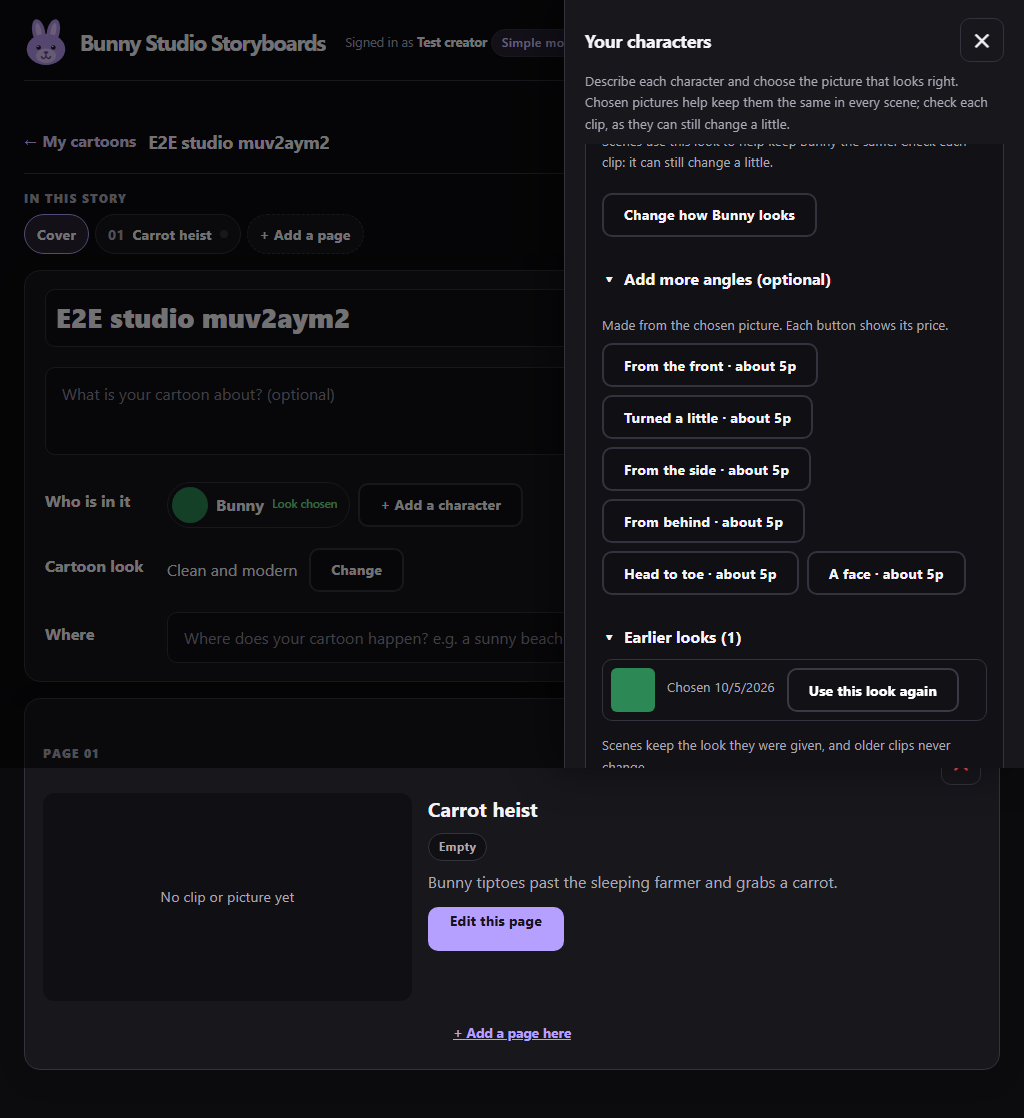
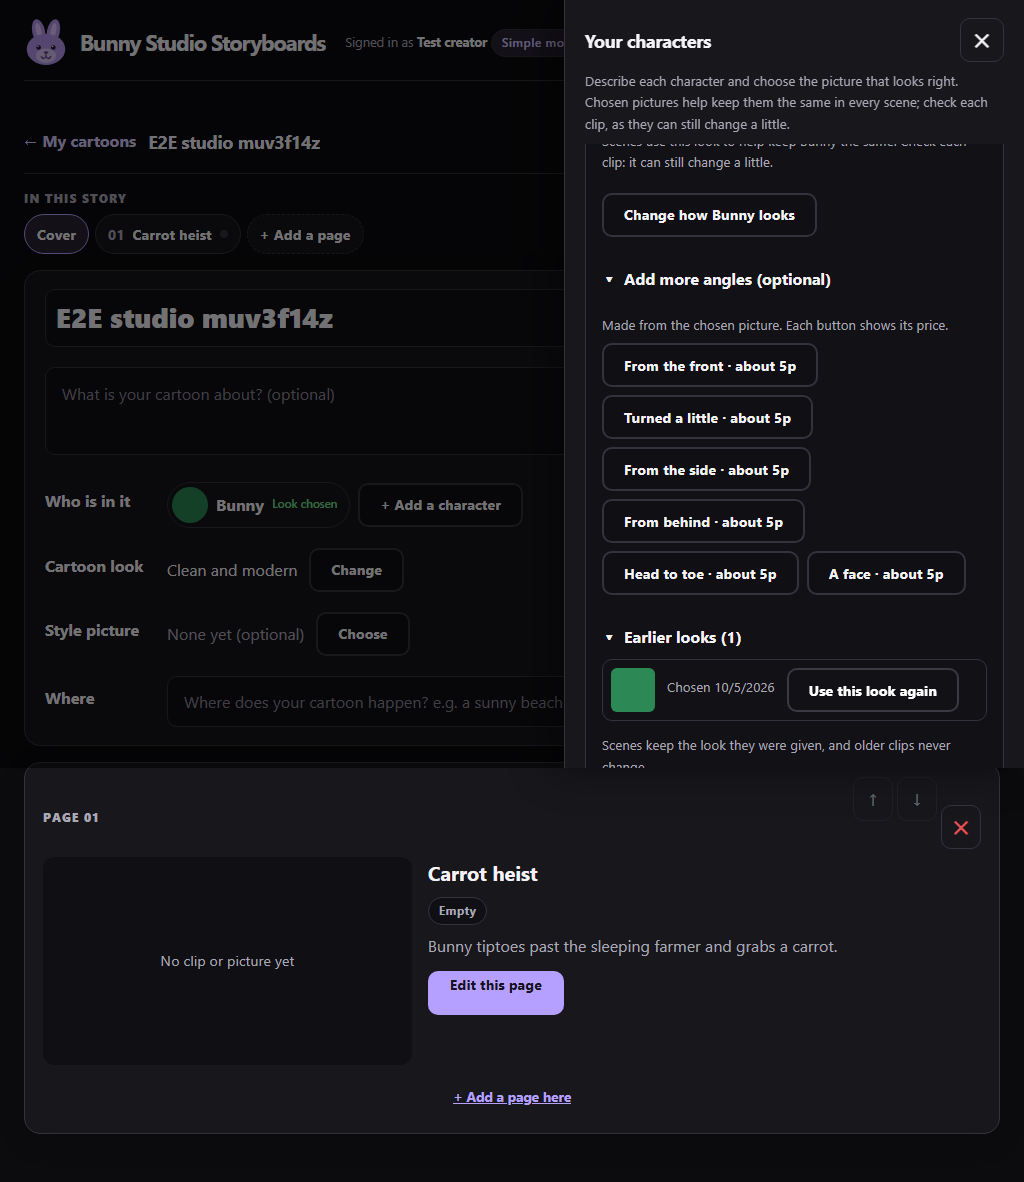
docs,models: Seedance 2.5 refs live-checked (stays Advanced, not recommended); step-4 status in the plan, review and storybook notes

diff --git a/packages/models/src/generated.ts b/packages/models/src/generated.ts
@@ -587,7 +587,7 @@ export const MODELS = [
       "audio_mode": "optional",
       "documentation": "https://fal.ai/models/bytedance/seedance-2.5/reference-to-video/api",
       "rollout": "advanced",
-      "verified_live": false
+      "verified_live": true
     },
     "pricing": {
       "strategy": "video_tokens",

diff --git a/docs/video-optimisation-plan.md b/docs/video-optimisation-plan.md
@@ -427,16 +427,43 @@ Deviations from the proposal:
 
 Not built yet:
 
-- The style picture (§7.2).
 - The stored render recipe (§7.3).
 - Seedance draft completion (DF-03).
 - The Kling O3 elements adapter (V9: benchmark first).
 - Joined parts are still possible for a long words-only clip (F12).
-- Director Mode's older `POST /shots/:id/jobs` still sends the still prompt to a video maker.
-- Stage 5, the live smoke test and the benchmark, needs the spend cap (V7).
+- Director Mode's older `POST /shots/:id/jobs` is retired (422); the scene composer is the only video path.
+- The benchmark (stage 5, second half).
 
 Tests:
 
 - Compiler: 63, at 100% coverage.
-- API: 141, including `test/video-continuity.test.ts`.
-- Browser: 25 passed, including `e2e/continuity.spec.ts`, at 1024×768 over the LAN IP.
+- API: 151, including `test/video-continuity.test.ts` and the §7.2/§7.4 cases in `test/character-studio.test.ts`.
+- Browser: 24 passed, 1 opt-in walkthrough, at 1024×768 over the LAN IP.
+
+### Added 5 October 2026
+
+- **The style picture (§7.2): built, fake-verified.** `PUT /projects/:id/style` takes
+  `style_picture_asset_id` (one of the cartoon's own finished pictures, or null); the cover has a
+  "Style picture" row with a picker. `plan()` appends it as the last reference with role `style`,
+  counts it against the maker's limit, and the compiled prompt says "match the art style, colours
+  and line work shown in @ImageN". When it has no room it refuses with `missing: style_picture_room`
+  rather than dropping it. The continuity report says which clips used it. A style picture cannot be
+  binned while it is chosen.
+- **Start where the last page ended (§7.4): built, fake-verified, frame extraction checked on a real
+  clip.** `POST /shots/:id/start-from-previous` takes the last frame of the previous page's chosen
+  clip (ffmpeg `-sseof`), stores it as a `frame_ref` that inherits the clip's review verdict, and sets
+  it as the starting picture. A quote with `use_start_frame` and `keep_cast_pictures` is a
+  reference-to-video task with a start frame, so only a maker that takes both is used — today
+  MiniMax H3 Max refs (`image_url` + `reference_image_urls`; Seedance refs has one list and is not
+  used for this). On Sunny Beach Catch, page 2 from page 1's last frame quoted at 40p for 5 s with
+  two character pictures. The composer offers it under Starting and ending pictures (Advanced).
+- **Binned pictures (review 2 Oct, P2): fixed.** A picture pinned in an approved look cannot go
+  in the bin (422, naming the character), nor can the style picture; the runner refuses a binned
+  picture instead of sending it.
+- **Seedance 2.5 refs live check (stage 5): done, £2.32.** One 5 s 720p reference-to-video clip
+  of Sunny Beach Catch page 1 (Timmy, one picture, sound on). It finished in 5½ minutes, passed the
+  safety check, kept Timmy's look and the beach, but rendered a near-photoreal beach rather than the
+  cartoon's "3D animated film" look, where Wan 3.0 refs (10p/s) followed the look. **Decision:**
+  `verified_live: true`, stays Advanced-only, not recommended; Wan 3.0 refs remains the recommended
+  references maker. The ledger holds fal's listed rate ($2.31); the fal bill itself was not read back.
+  Running total of the agreed £10 cap: £9.21.

diff --git a/docs/storybook-rebuild-status.md b/docs/storybook-rebuild-status.md
@@ -30,7 +30,7 @@ exists for the sketch and comes back to its storybook page.
 | 7 Characters (SB-19–24) | built, fake-verified | The same sheet from the cover (a character's chip, "+ Add a character") or a page ("Choose X's look"). Cast board at the top of the sheet. Candidates stay candidates until "Use this look"; a new look offers "Use this look in every scene" and never rebinds silently. Missing looks link to the sheet; words-only is an explicit choice under More options. |
 | 8 Generation (SB-25–30) | built, fake-verified | Unchanged from the existing composer: one priced action, quote fingerprint + idempotency key, 409 on a changed quote, previews and finals with the recorded recipe or "Use my current scene settings instead", Other versions, Use this clip. |
 | 9 Watch (SB-31–36) | built, fake-verified | Route-backed (`/watch?scene=`), Back to your story returns to the page. **New server field `render_current`** (a fingerprint of the render inputs recorded on the render job: scenes in order, asset ids, durations, transitions, music, voiceovers). Download video leads when current; "Update cartoon" and "Download the older version" when not; an older file that recorded no inputs says so rather than guessing. |
-| 10 Continuity | as before | The approved-reference workflow, the continuity report in Watch, and the "words only" label are in place. Shared style picture, stored recipe, props/locations and continue-from-previous-frame: **not built** (documented in [video-optimisation-plan.md](video-optimisation-plan.md) §11). No fake Enabled/Locked indicators are shown. |
+| 10 Continuity | built, fake-verified (5 Oct) | The approved-reference workflow, the continuity report in Watch, and the "words only" label are in place. **Style picture** (cover row, §7.2) and **Start where the last page ended** (Advanced, §7.4) added 5 Oct. Stored recipe and props/locations: not built ([video-optimisation-plan.md](video-optimisation-plan.md) §11). No fake Enabled/Locked indicators are shown. |
 | 11 Visual | built, fake-verified | Screenshots in `docs/screenshots/validation/` at 1024×768, 768×1024, 1440×900, 1920×1080 and 2560×1440; white theme at 1024 and 1440. No horizontal overflow is asserted at 1024. Inactive pages render a poster image only; one `<video>` is mounted (the open page's). Reduced motion disables smooth scrolling. |
 
 ## Removed
@@ -42,7 +42,7 @@ stays as the composer's two columns.
 ## Verified
 
 - Web build, API typecheck.
-- API tests: 148 (the timeline change is covered by the existing director/timeline tests; `render_current` has no dedicated test yet).
+- API tests: 151 (the timeline change is covered by the existing director/timeline tests; `render_current` has no dedicated test yet).
 - Browser suite: 24 passed with the fake provider, plus the opt-in walkthrough that writes the screenshots. Run over the LAN address, not localhost.
 
 ## Not done, honestly

diff --git a/docs/review-2026-10-02.md b/docs/review-2026-10-02.md
@@ -80,7 +80,7 @@ no `.env` has ever been committed; the container runs as `node` with a data-only
 
 | Priority | Finding | Recommendation |
 |---|---|---|
-| P2 | Binned pictures are still sent to the provider: `loadImage` and `loadLooks` do not check `deleted_at`, and deleting an asset only clears `main_reference_asset_id`. A child bins a picture pinned in an approved look and every later clip still ships it. | Either refuse to bin a pinned reference with a plain message, or treat it as unusable in `loadImage` and surface it through `missingLooks`. |
+| P2 | ~~Binned pictures are still sent to the provider.~~ **Done 5 Oct:** `DELETE /assets/:id` refuses (422) a picture pinned in any approved look, naming the character, and the cartoon's style picture; `loadImage` fails a job on a binned picture with a plain message instead of sending it. | — |
 | P2 | `generation_jobs.request` and `provider_result` are cast from JSON in nine places and trusted for routing, pricing and seeds. | A zod schema for `CreativeVideoSnapshot`, versioned by `schemaVersion`, parsed once in `plan()` and `buildRequest()`. |
 | P3 | "Nobody is in this scene yet" is shown when the real problem is a look whose pictures have all become unusable. | A `noPictures` list on the manifest with its own wording. |
 | P3 | `mixed_looks` says "earlier look" for any non-current look, including a newer one after the child went back; `look_style` scene ids and wording can disagree for old looks with an empty style. | Compare visual versions; compute the ids from the same predicate as the wording. |
@@ -114,7 +114,7 @@ no `.env` has ever been committed; the container runs as `node` with a data-only
 
 1. **This week:** HTTPS on the NAS and shorter tokens (security P1); the reserved-money reaper
    (architecture P1); helmet/CSP and the fal host allowlist.
-2. **Next:** ~~indexes; `createJob()`; batch the continuity and style paths~~ (done); binned pictures in
-   looks; the zod schema for recipes.
+2. **Next:** ~~indexes; `createJob()`; batch the continuity and style paths; binned pictures in
+   looks~~ (done); the zod schema for recipes.
 3. **When touching the area anyway:** the v1.0 schema clean-up; `strictSafety`; the
    SceneComposer hooks; price-source unification; the wording and UTC items.
